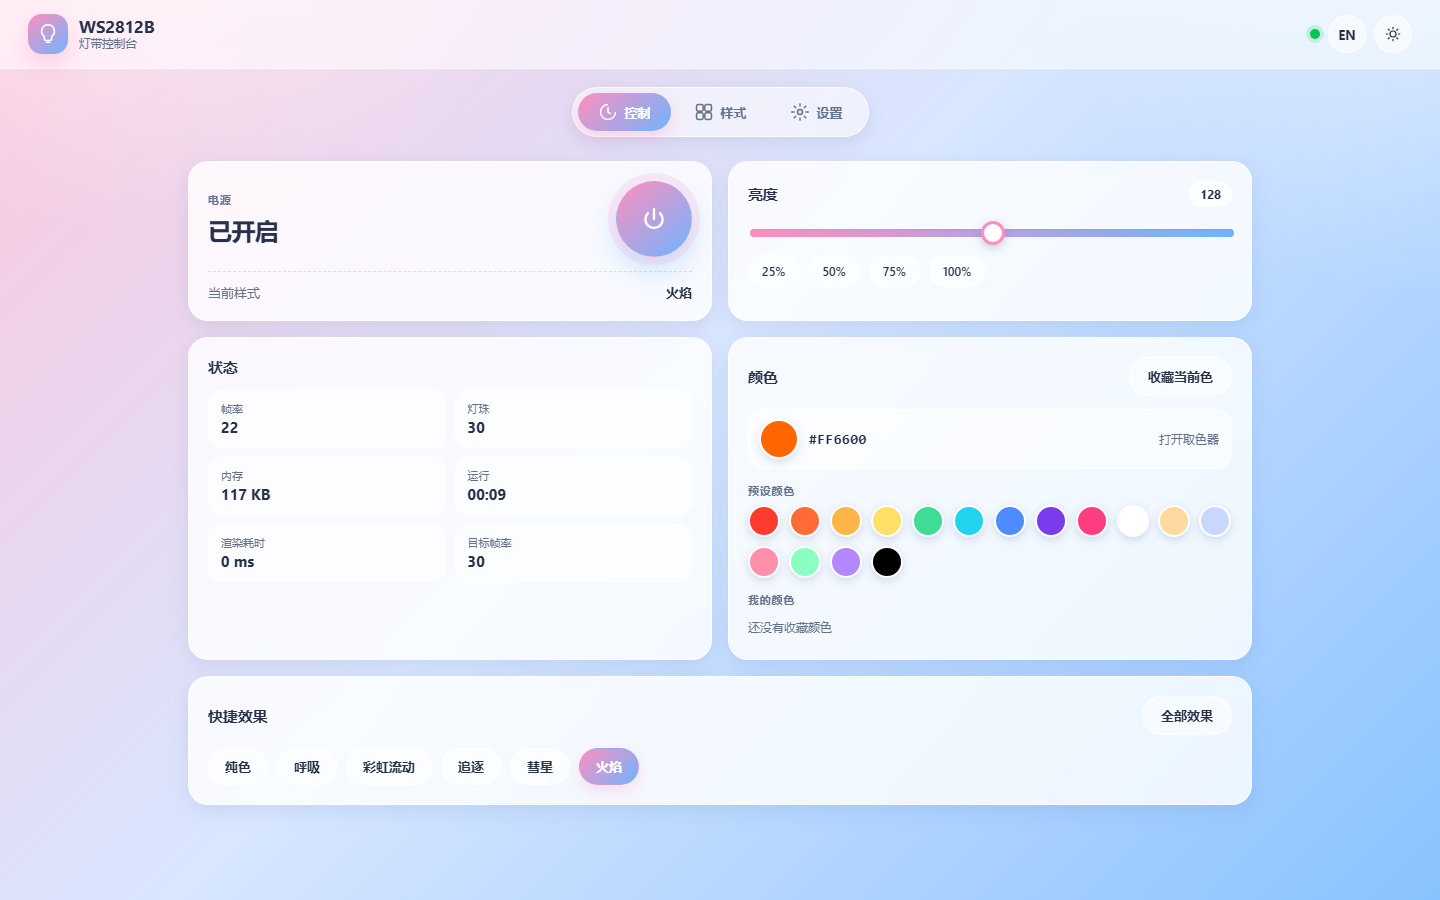
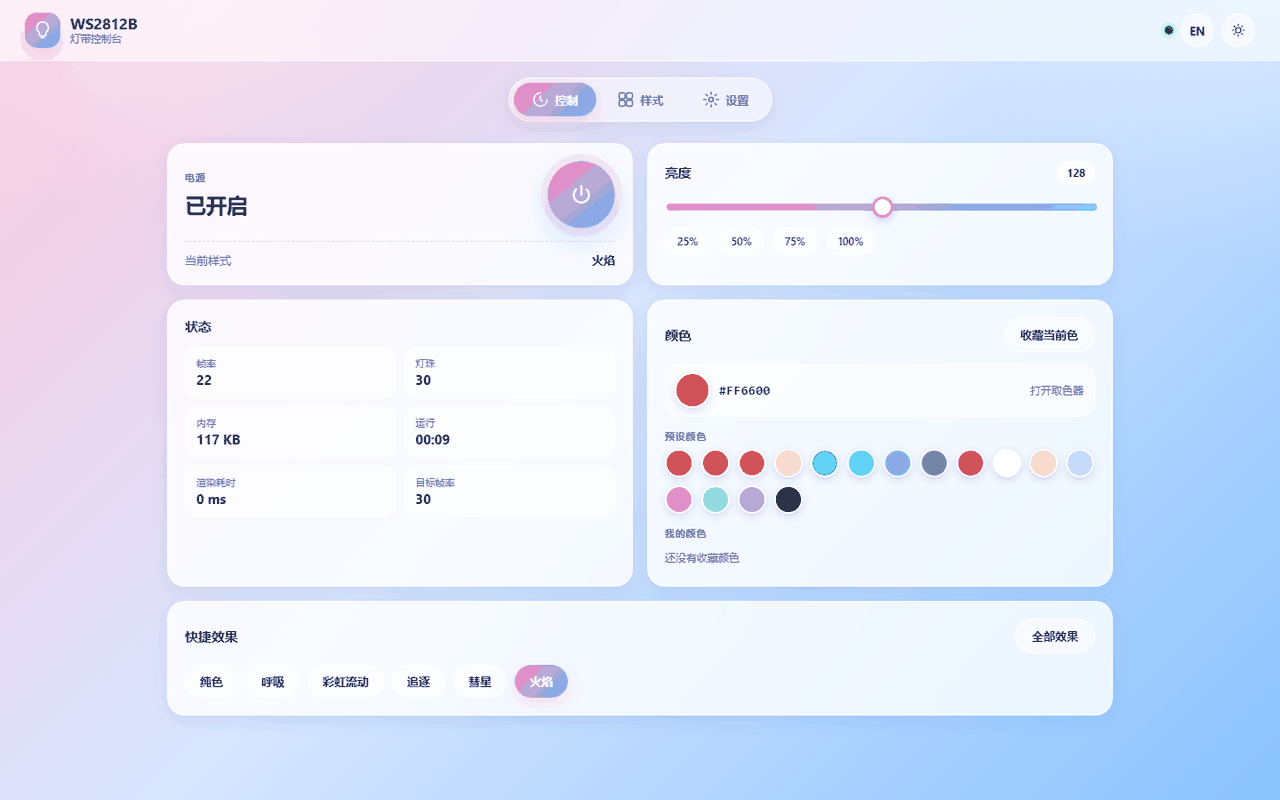
docs: shrink README screenshots for a tidier layout
Cap display widths at 240/600 px and downscale the sources to 2x, cutting
the three committed PNGs from ~1 MB to ~270 KB.

diff --git a/README.md b/README.md
@@ -23,8 +23,10 @@ no app required.
 
 单文件版：`python tools/build_single.py` → `dist/main_single.py`。详细说明见 [VERSIONS.md](VERSIONS.md)。
 
-![mobile](docs/screenshots/mobile-control.png)
-![desktop](docs/screenshots/desktop-control.png)
+<p align="center">
+  <img src="docs/screenshots/mobile-control.png" width="240" alt="mobile UI">
+  <img src="docs/screenshots/desktop-control.png" width="600" alt="desktop UI">
+</p>
 
 ---
 
@@ -109,7 +111,9 @@ ESP8266 用极简版：[`firmware/esp8266_lite/`](firmware/esp8266_lite) — 只
 没有 JSON 样式、多灯带和自定义 Python 效果。详见
 [firmware/esp8266_lite/README.md](firmware/esp8266_lite/README.md)。
 
-![lite](docs/screenshots/lite-mobile.png)
+<p align="center">
+  <img src="docs/screenshots/lite-mobile.png" width="240" alt="ESP8266 Lite UI">
+</p>
 
 ### 首次使用
 
@@ -318,7 +322,9 @@ Six effects, brightness/power, built-in colour picker, LED count/pin/boot settin
 stored in `lite.cfg`. No JSON styles, multiple strips or custom Python effects.
 See [firmware/esp8266_lite/README.md](firmware/esp8266_lite/README.md).
 
-![lite](docs/screenshots/lite-mobile.png)
+<p align="center">
+  <img src="docs/screenshots/lite-mobile.png" width="240" alt="ESP8266 Lite UI">
+</p>
 
 ### First boot
 
